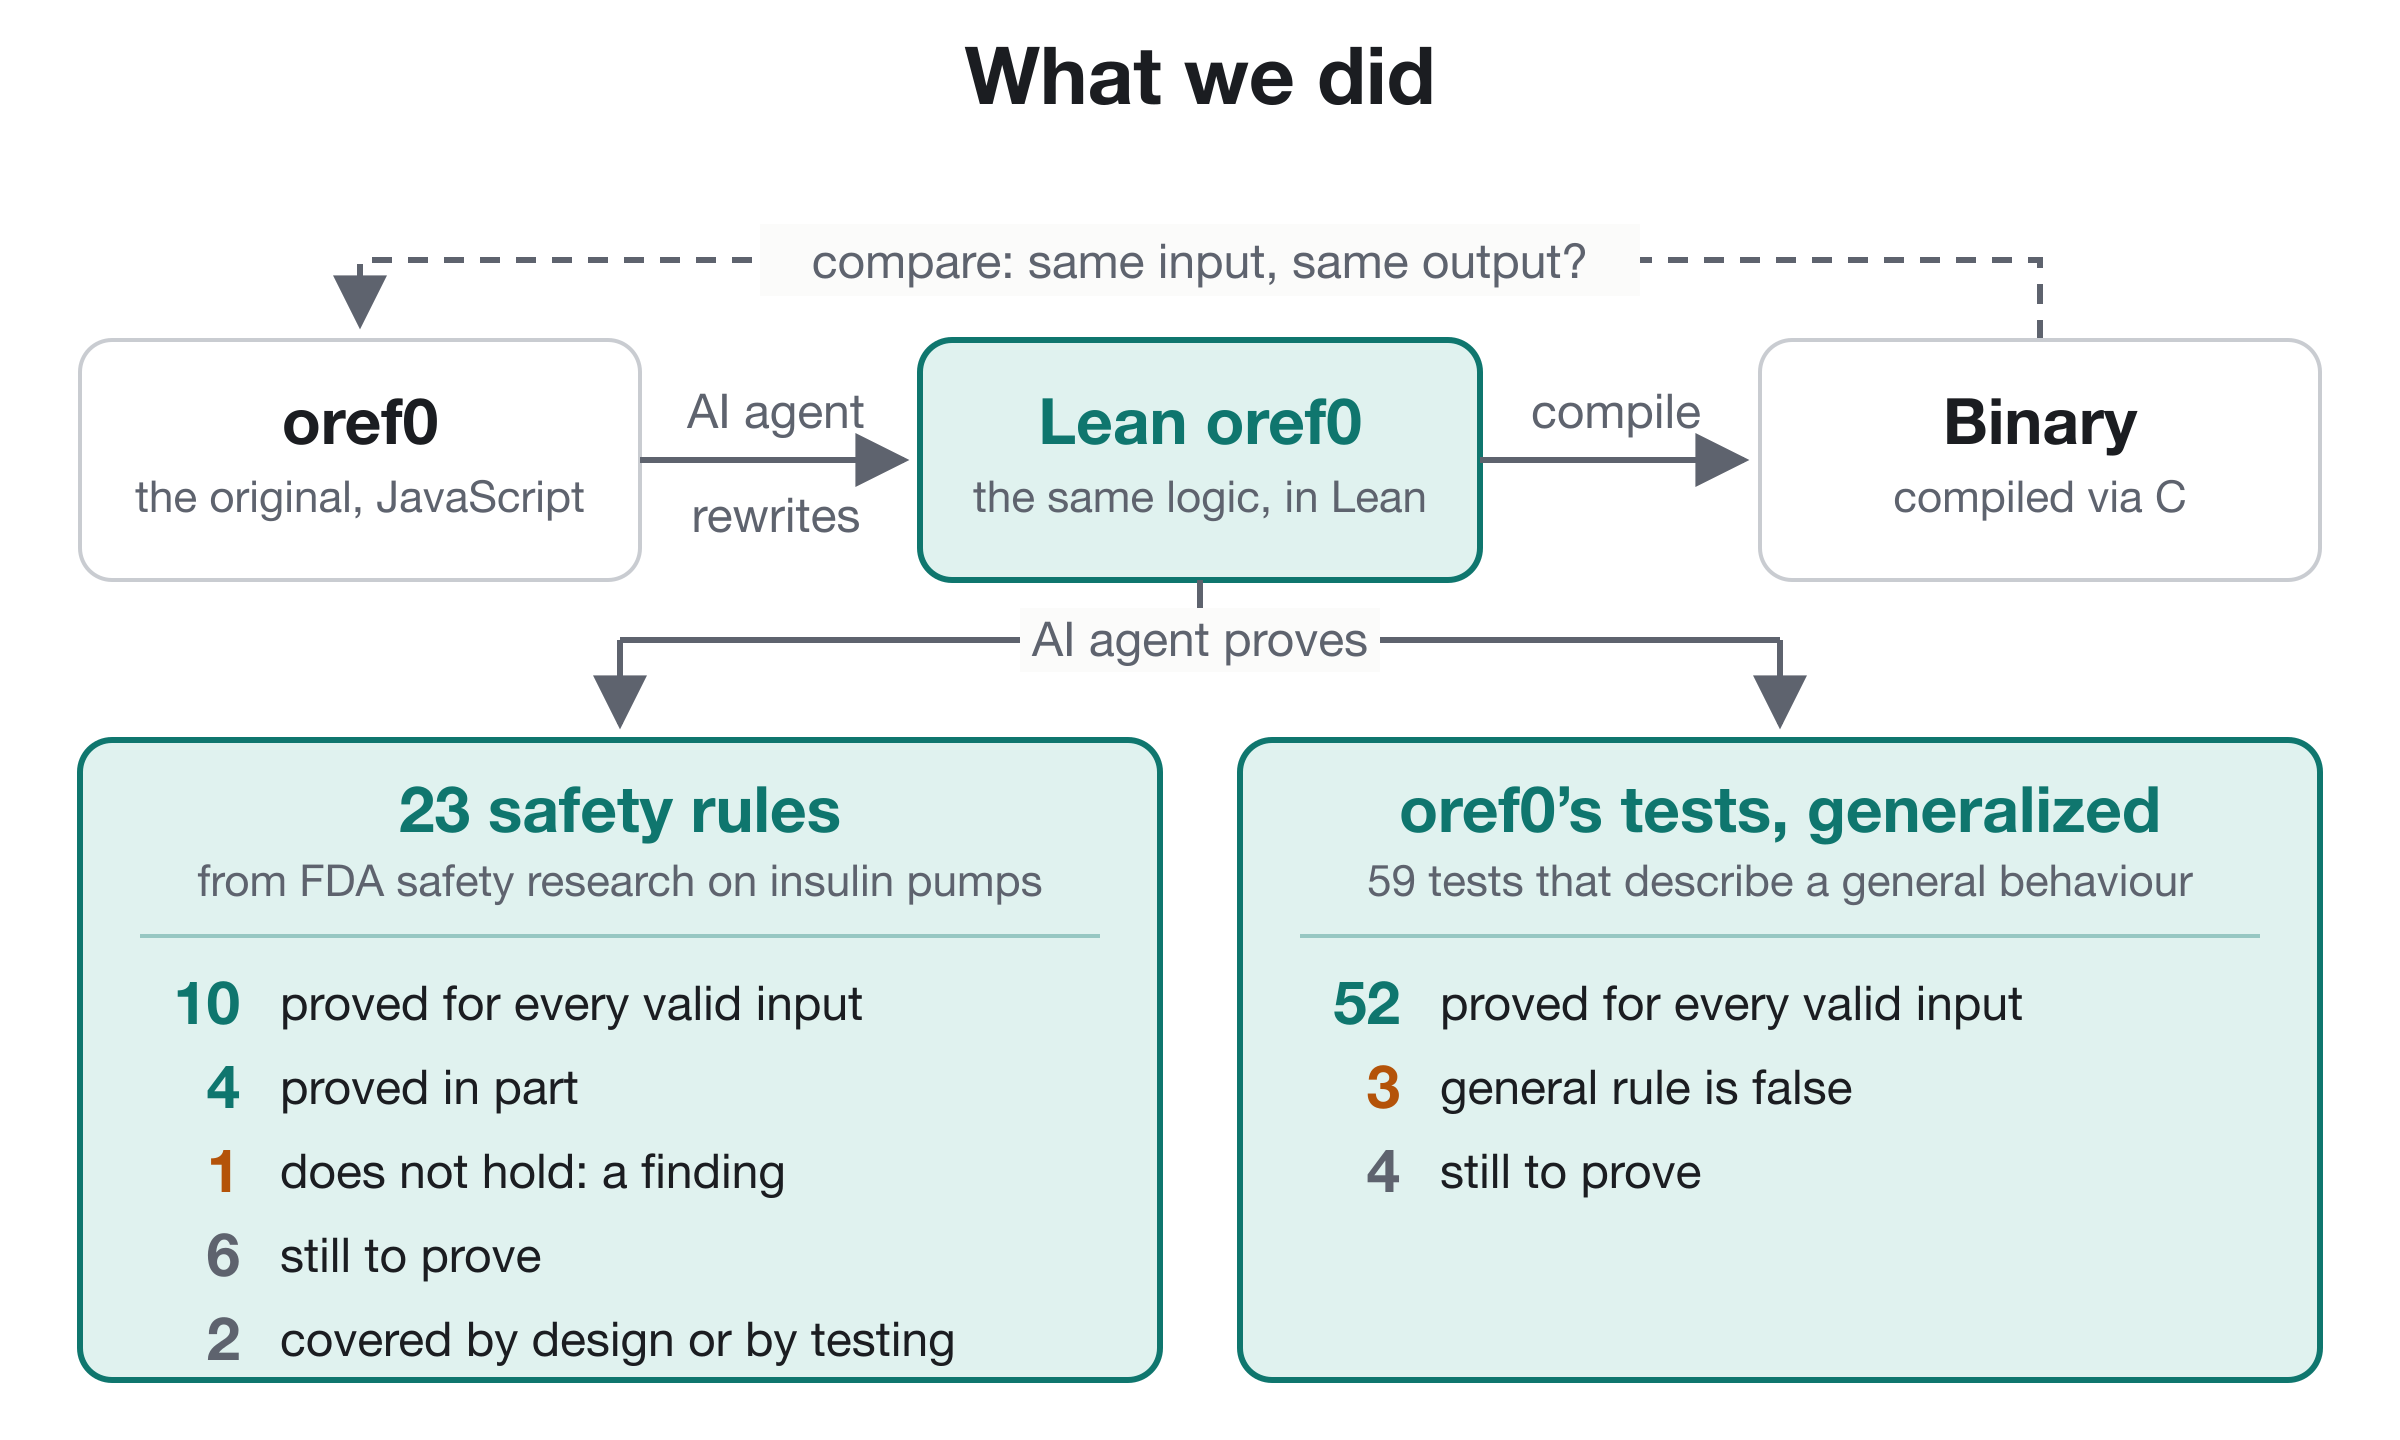
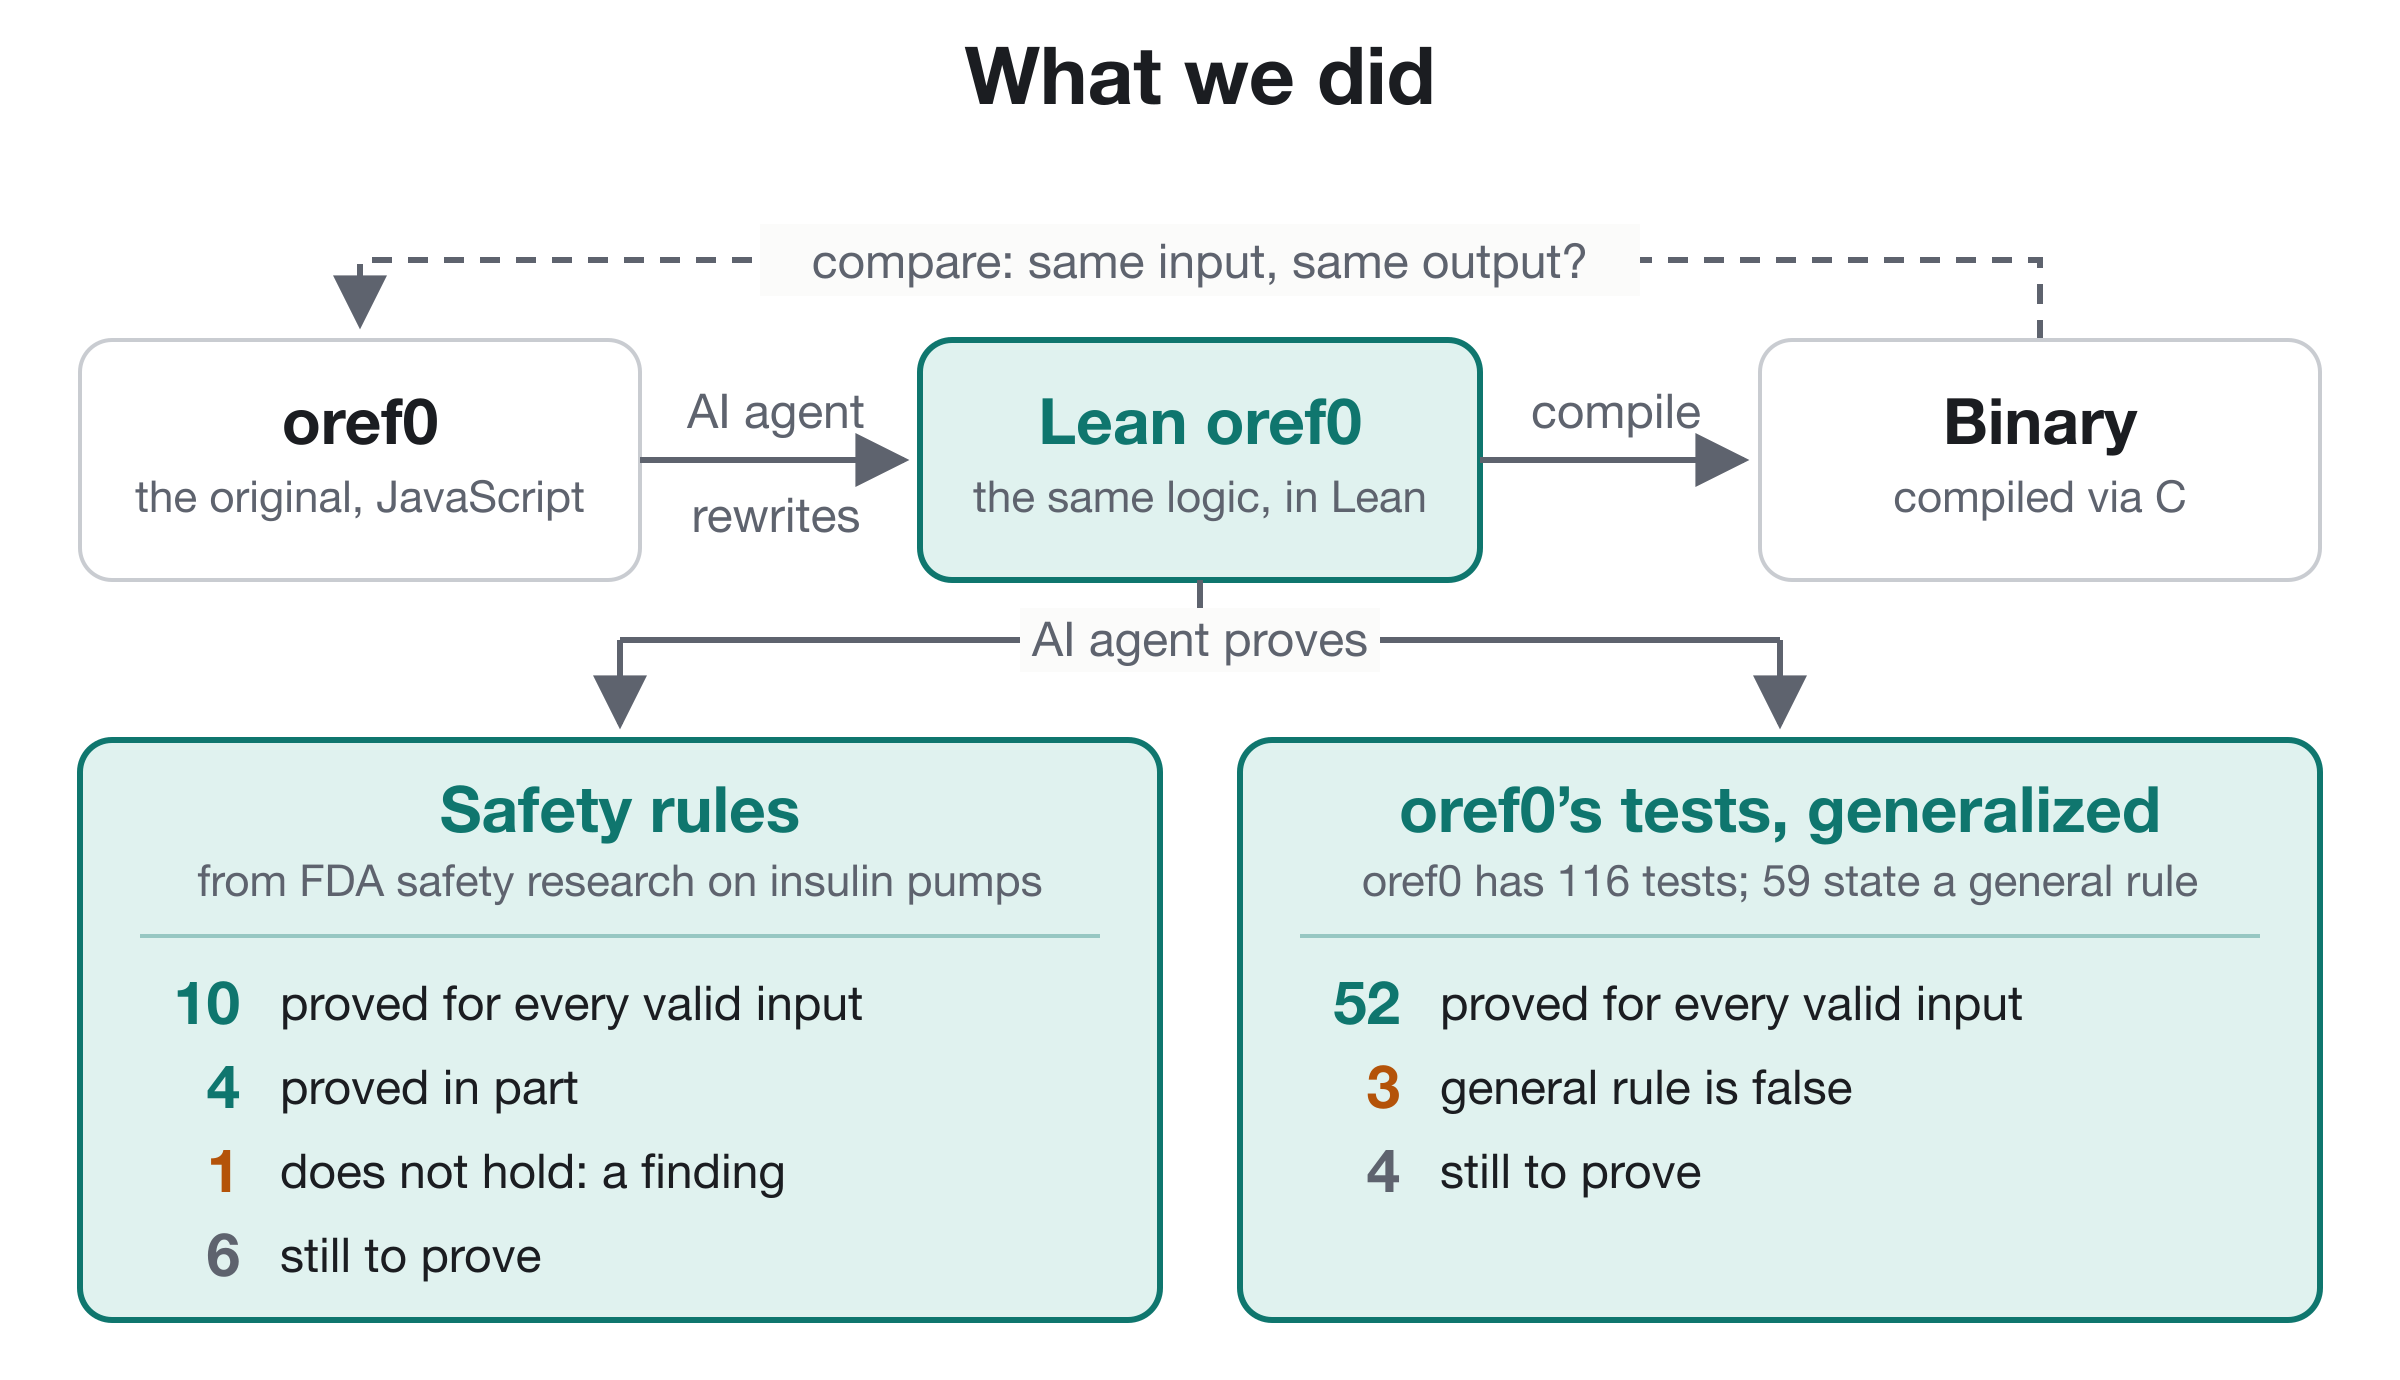
Diagram: safety rules without the total; oref0 tests: 116 in total, 59 with a general rule

diff --git a/site/index.html b/site/index.html
@@ -200,7 +200,7 @@ footer li { margin: 3px 0; }
   <div class="wrap">
     <h2>What we did</h2>
     <p class="sub">Three steps, all carried out by an AI agent and checked by a computer.</p>
-    <img class="diagram fig" src="img/did.svg" width="1200" height="720" alt="An AI agent rewrote oref0 from JavaScript into Lean, compiled the Lean version into a binary, through C, and compared it with the original. Of 23 safety rules adapted from FDA pump-safety research and regulations, 10 are proved for every valid input, 4 in part, 1 does not hold (a finding), 6 are still to prove, and 2 are covered by design or by testing. It also turned 52 of the 59 oref0 tests that describe a general behaviour into theorems for every valid input; for 3, the general rule is false, and 4 are still to prove.">
+    <img class="diagram fig" src="img/did.svg" width="1200" height="690" alt="An AI agent rewrote oref0 from JavaScript into Lean, compiled the Lean version into a binary via C, and compared it with the original. It proved two kinds of theorems. Safety rules from FDA research on insulin pumps: 10 proved for every valid input, 4 in part, 1 does not hold (a finding), 6 still to prove. oref0’s tests, generalized: of 116 tests, 59 state a general rule; 52 are proved for every valid input, for 3 the general rule is false, 4 are still to prove.">
     <div class="layer"><span class="num">1</span><div>
       <h3>Rewrote oref0 from JavaScript in Lean</h3>
       <p>Function by function, so every piece of the Lean code matches a piece of the original. It compiles to a program, <code>aid-lean</code>, that takes the same inputs and gives the same kind of answer as the original.</p>
